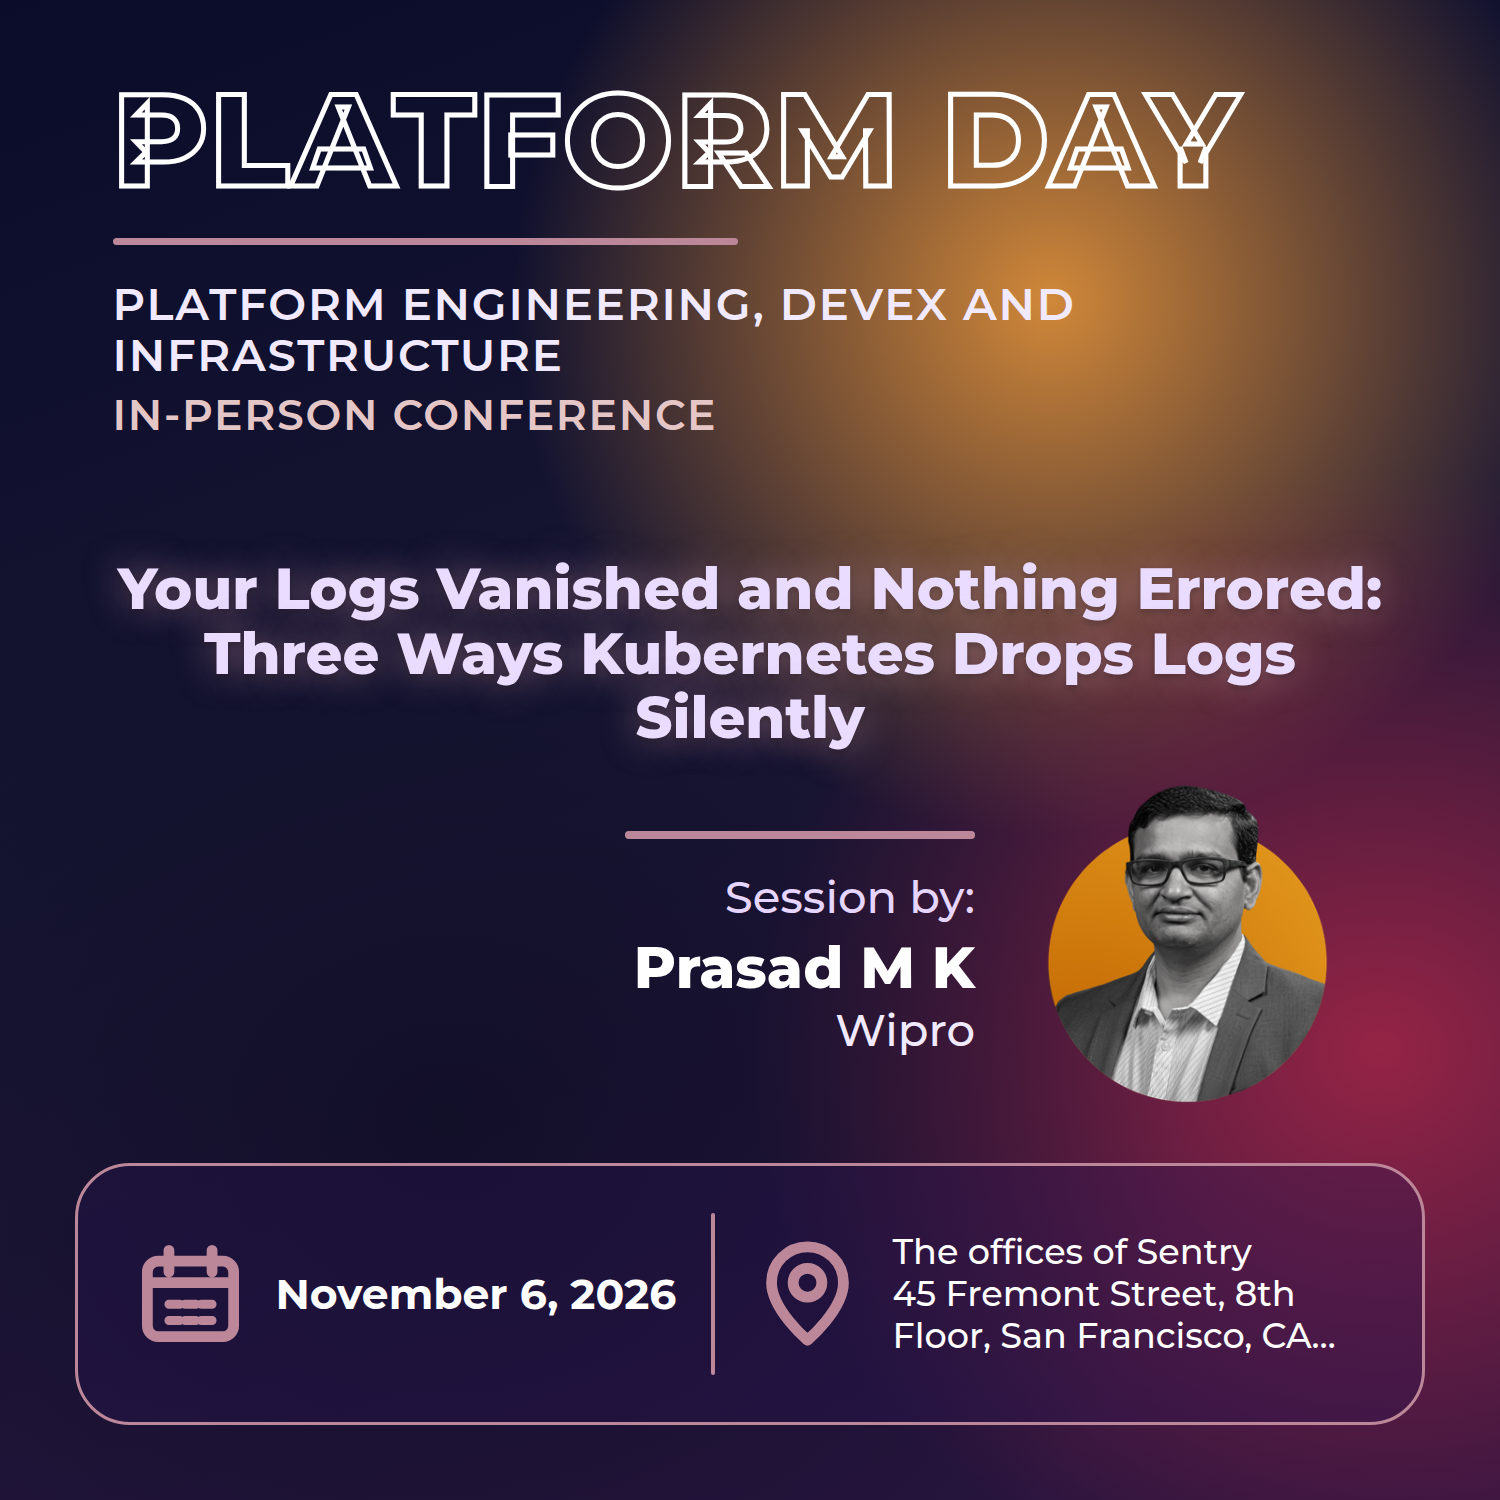
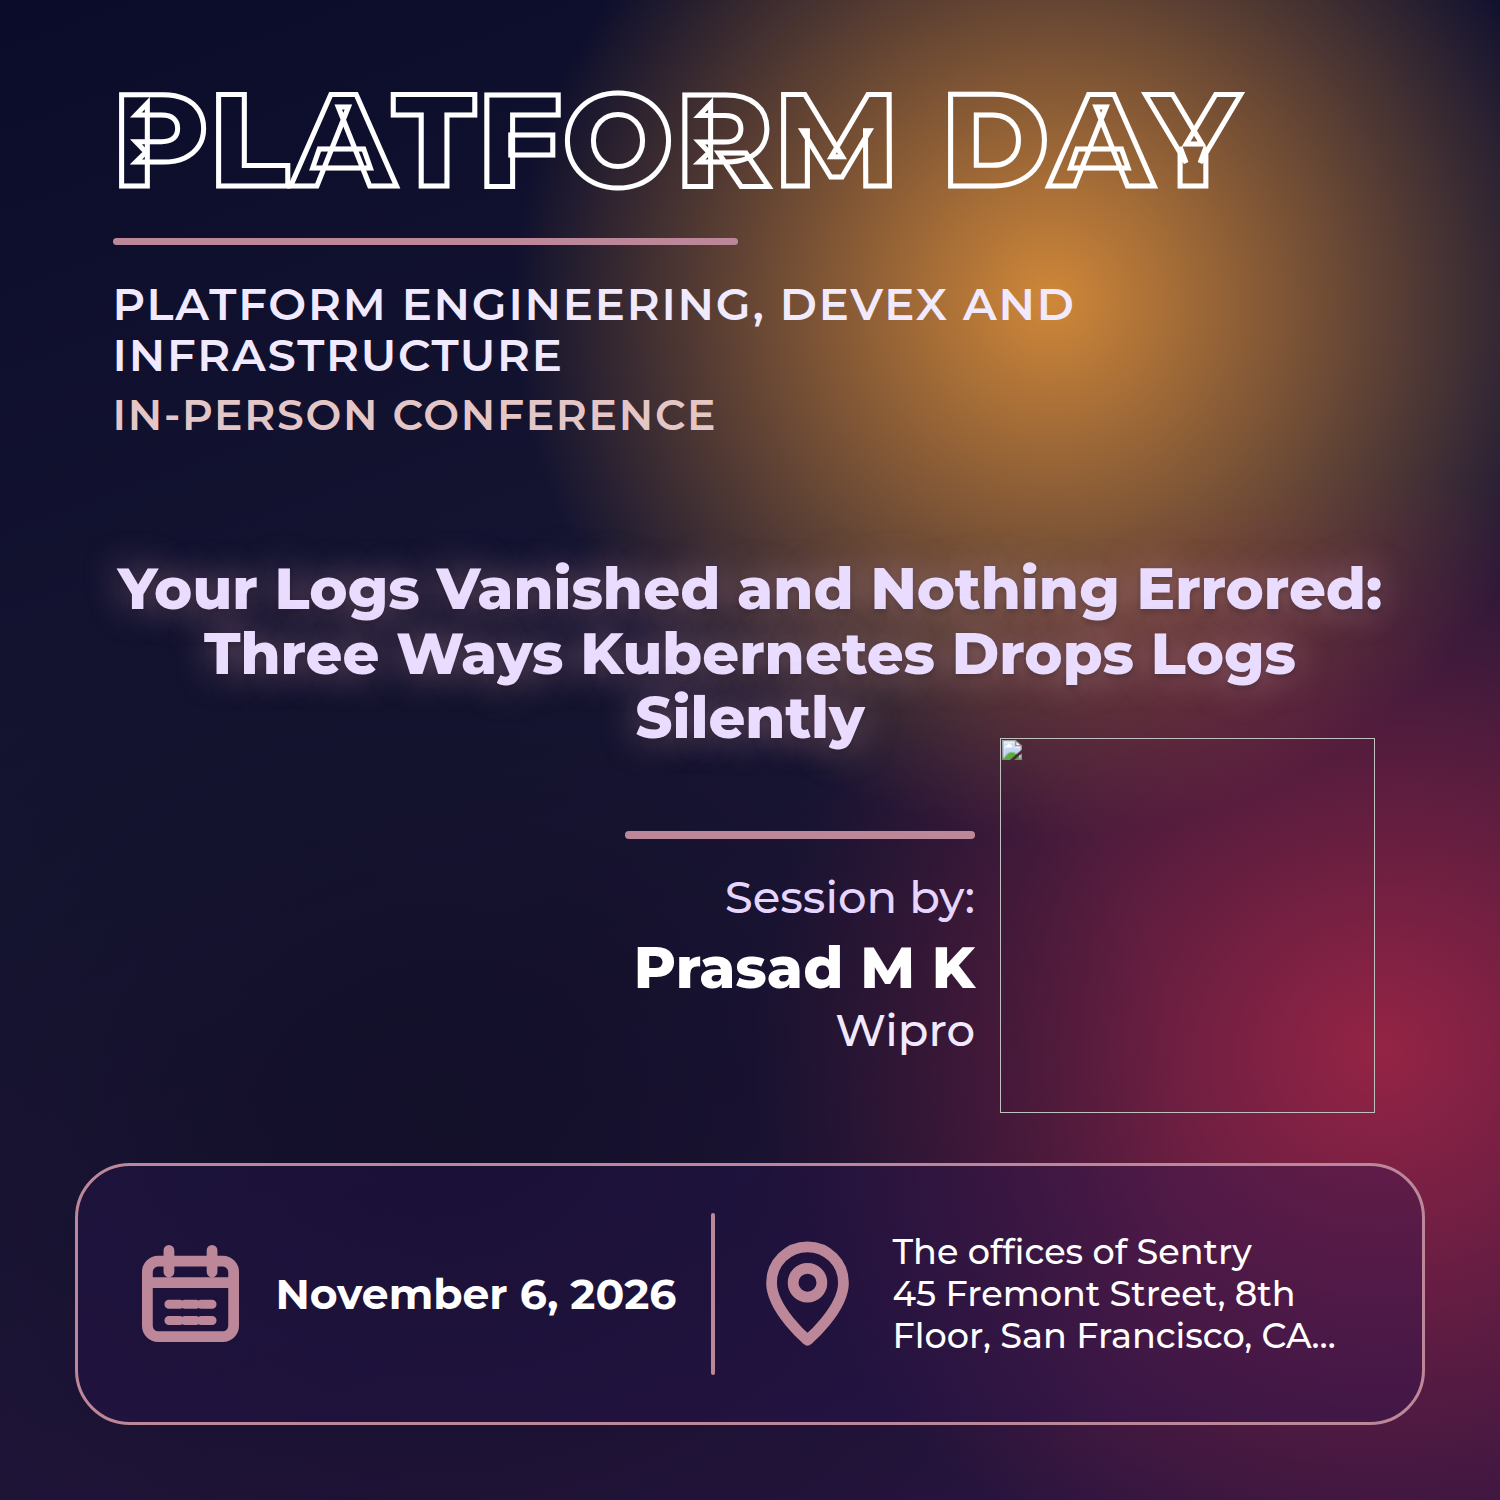
Deploying to gh-pages from @ sreday/platformday@208e1984c7128be7e299da4f7f97346cb0f4aba6 🚀

Changed region(s): [[0.6747, 0.5213, 0.8893, 0.736], [0.644, 0.4907, 0.6747, 0.5213]]

diff --git a/status/index.html b/status/index.html
@@ -418,7 +418,7 @@
 
   <section class="regs">
     <h2>Registrations</h2>
-    <div class="fresh" data-built="2026-09-25T16:27:16+00:00" title="Not live: the numbers refresh every time the website is built">
+    <div class="fresh" data-built="2026-09-25T16:27:45+00:00" title="Not live: the numbers refresh every time the website is built">
       <span class="pill fresh-pill">Last build</span><span class="fresh-text">2026-09-25 16:27 UTC</span>
     </div>
     
@@ -730,12 +730,13 @@
       <div class="check-head">
         <a href="/2026-san-francisco-q4/">PLATFORMday San Francisco 2026 Q4</a>
         <span class="spacer"></span>
-        <span class="count err">1 error</span>
+        <span class="count err">2 errors</span>
         
       </div>
       
       <ul>
         <li class="error"><i></i><a class="where" href="/2026-san-francisco-q4/Byron_Ellis_Faros_Preventing_a_Software_Dark_Age.html">row 4 · Byron Ellis</a><span>headshot 'Byron Ellis.png': file not found in the repo</span></li>
+        <li class="error"><i></i><a class="where" href="/2026-san-francisco-q4/Prasad_M_K_Wipro_Your_Logs_Vanished_and_Nothing_Errored_Three_Ways_Kubernetes_Drops_Logs_Silently.html">row 5 · Prasad M K</a><span>headshot 'Prasad M K.png': file not found in the repo</span></li>
         
         
       </ul>
